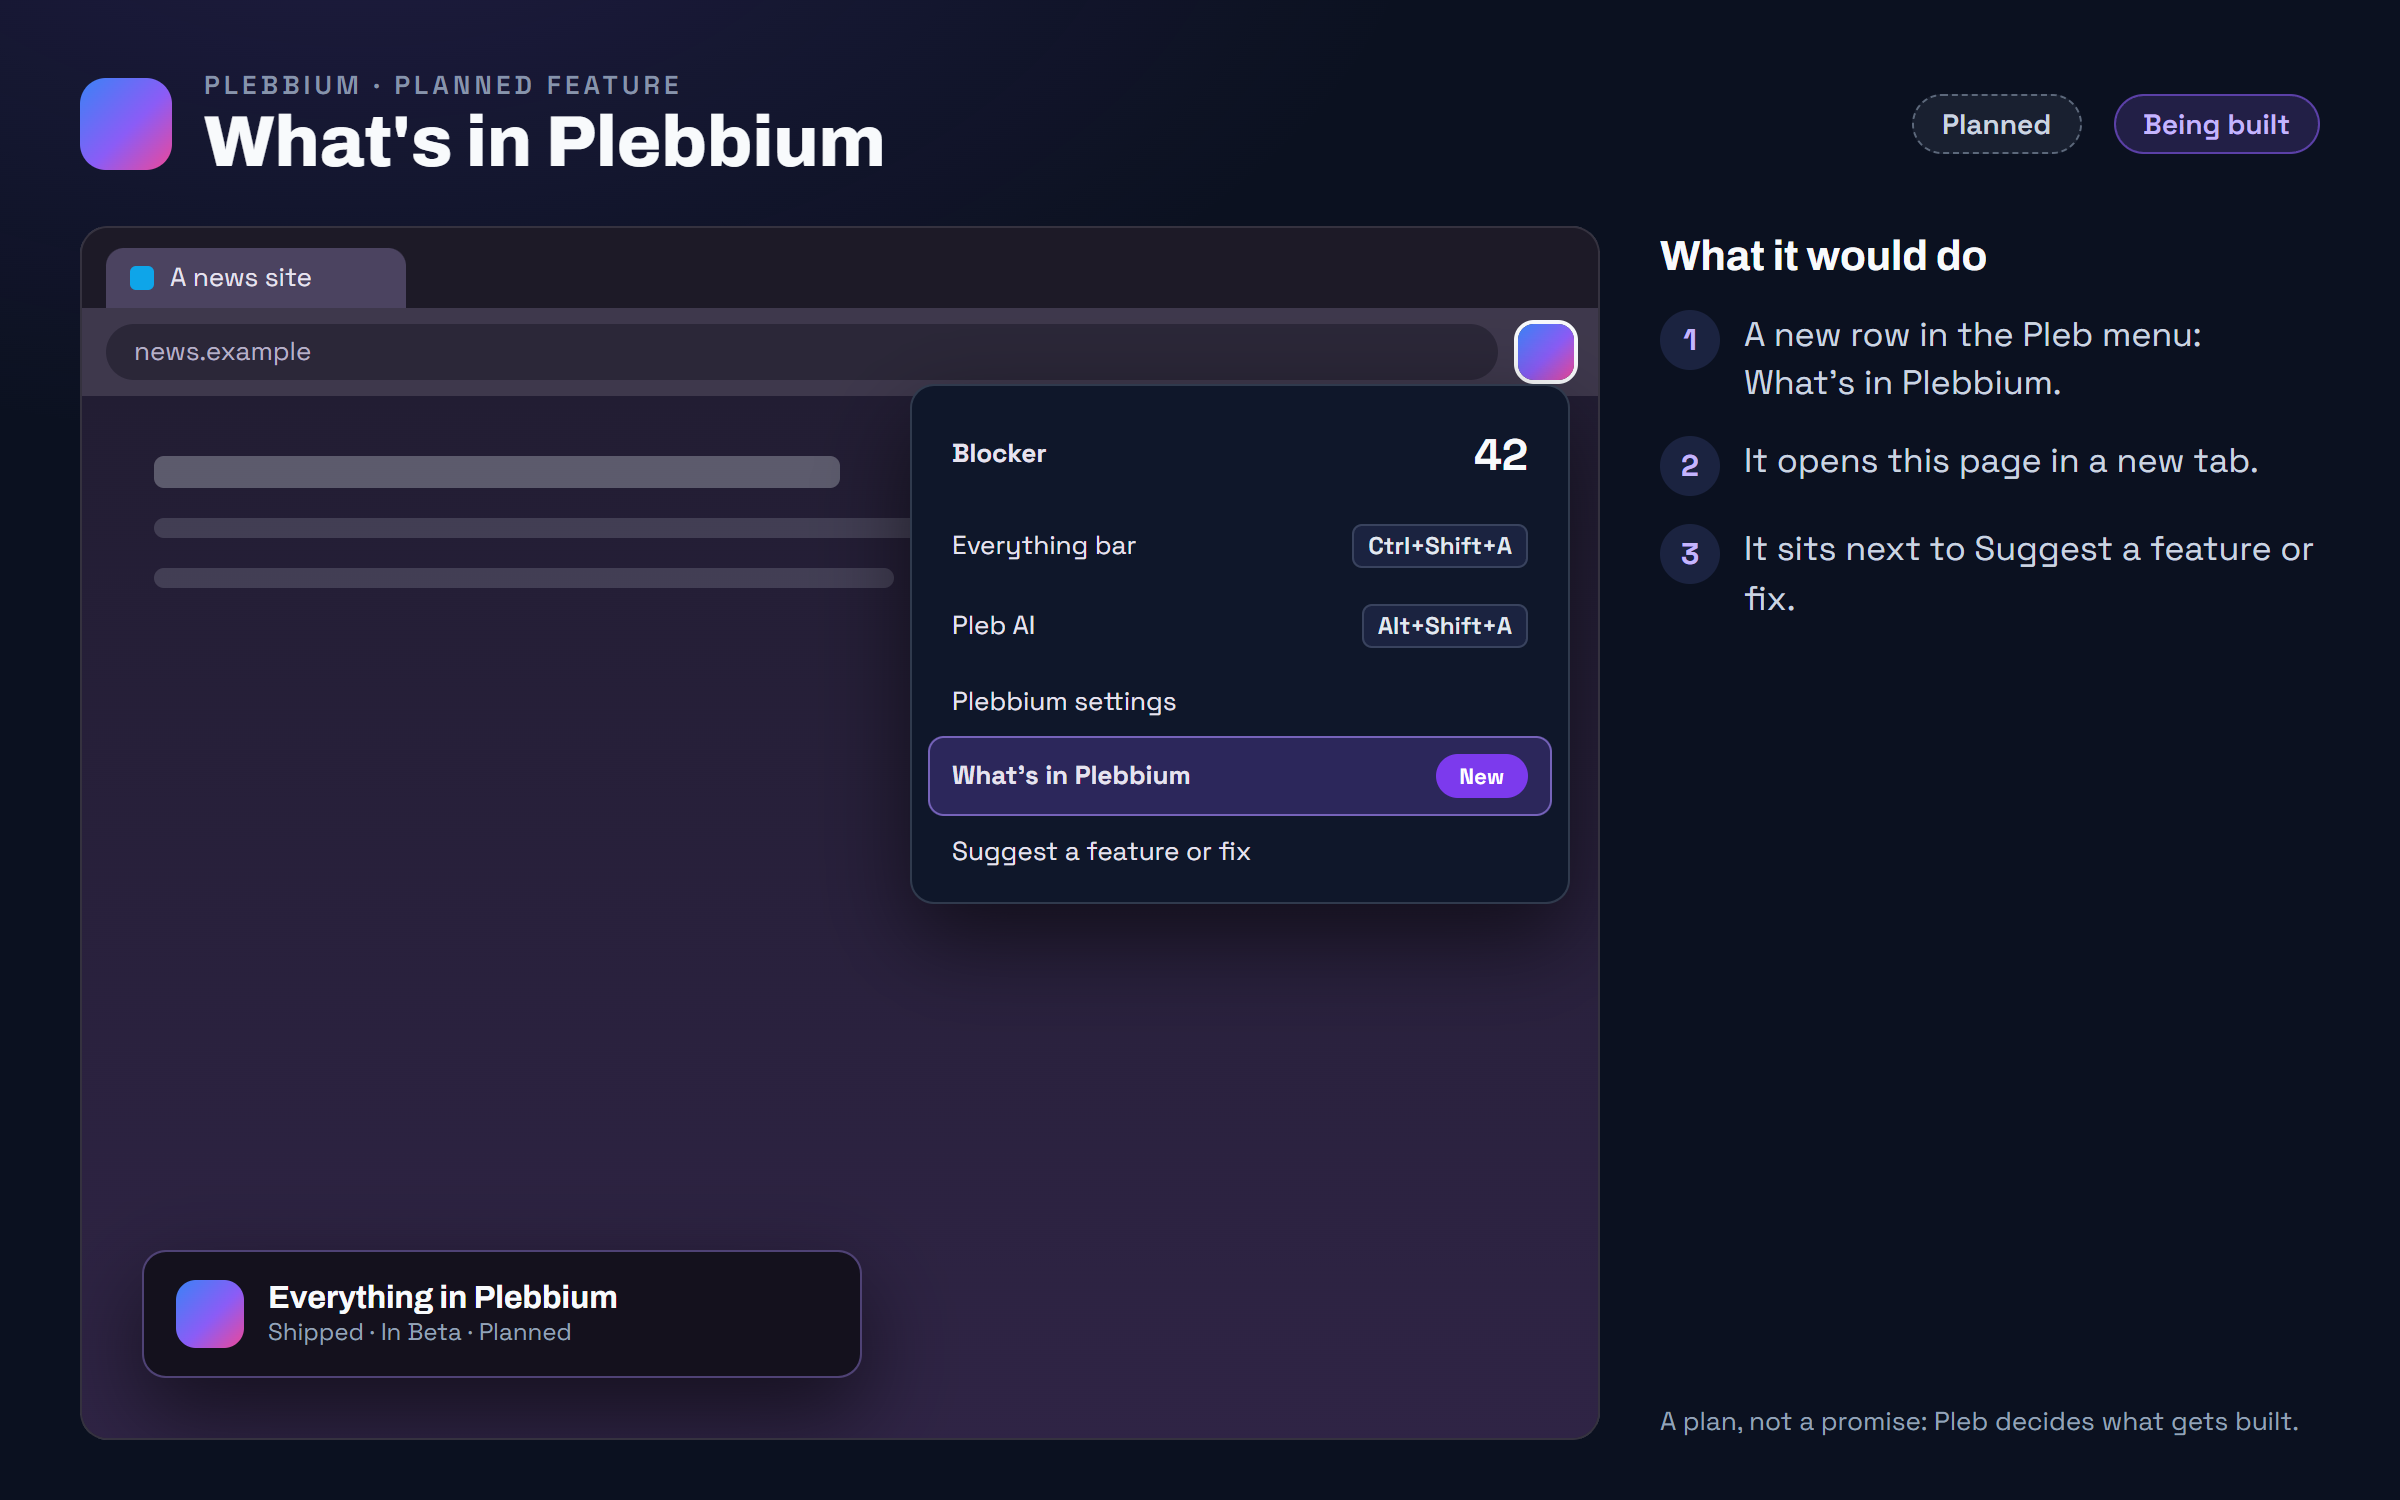
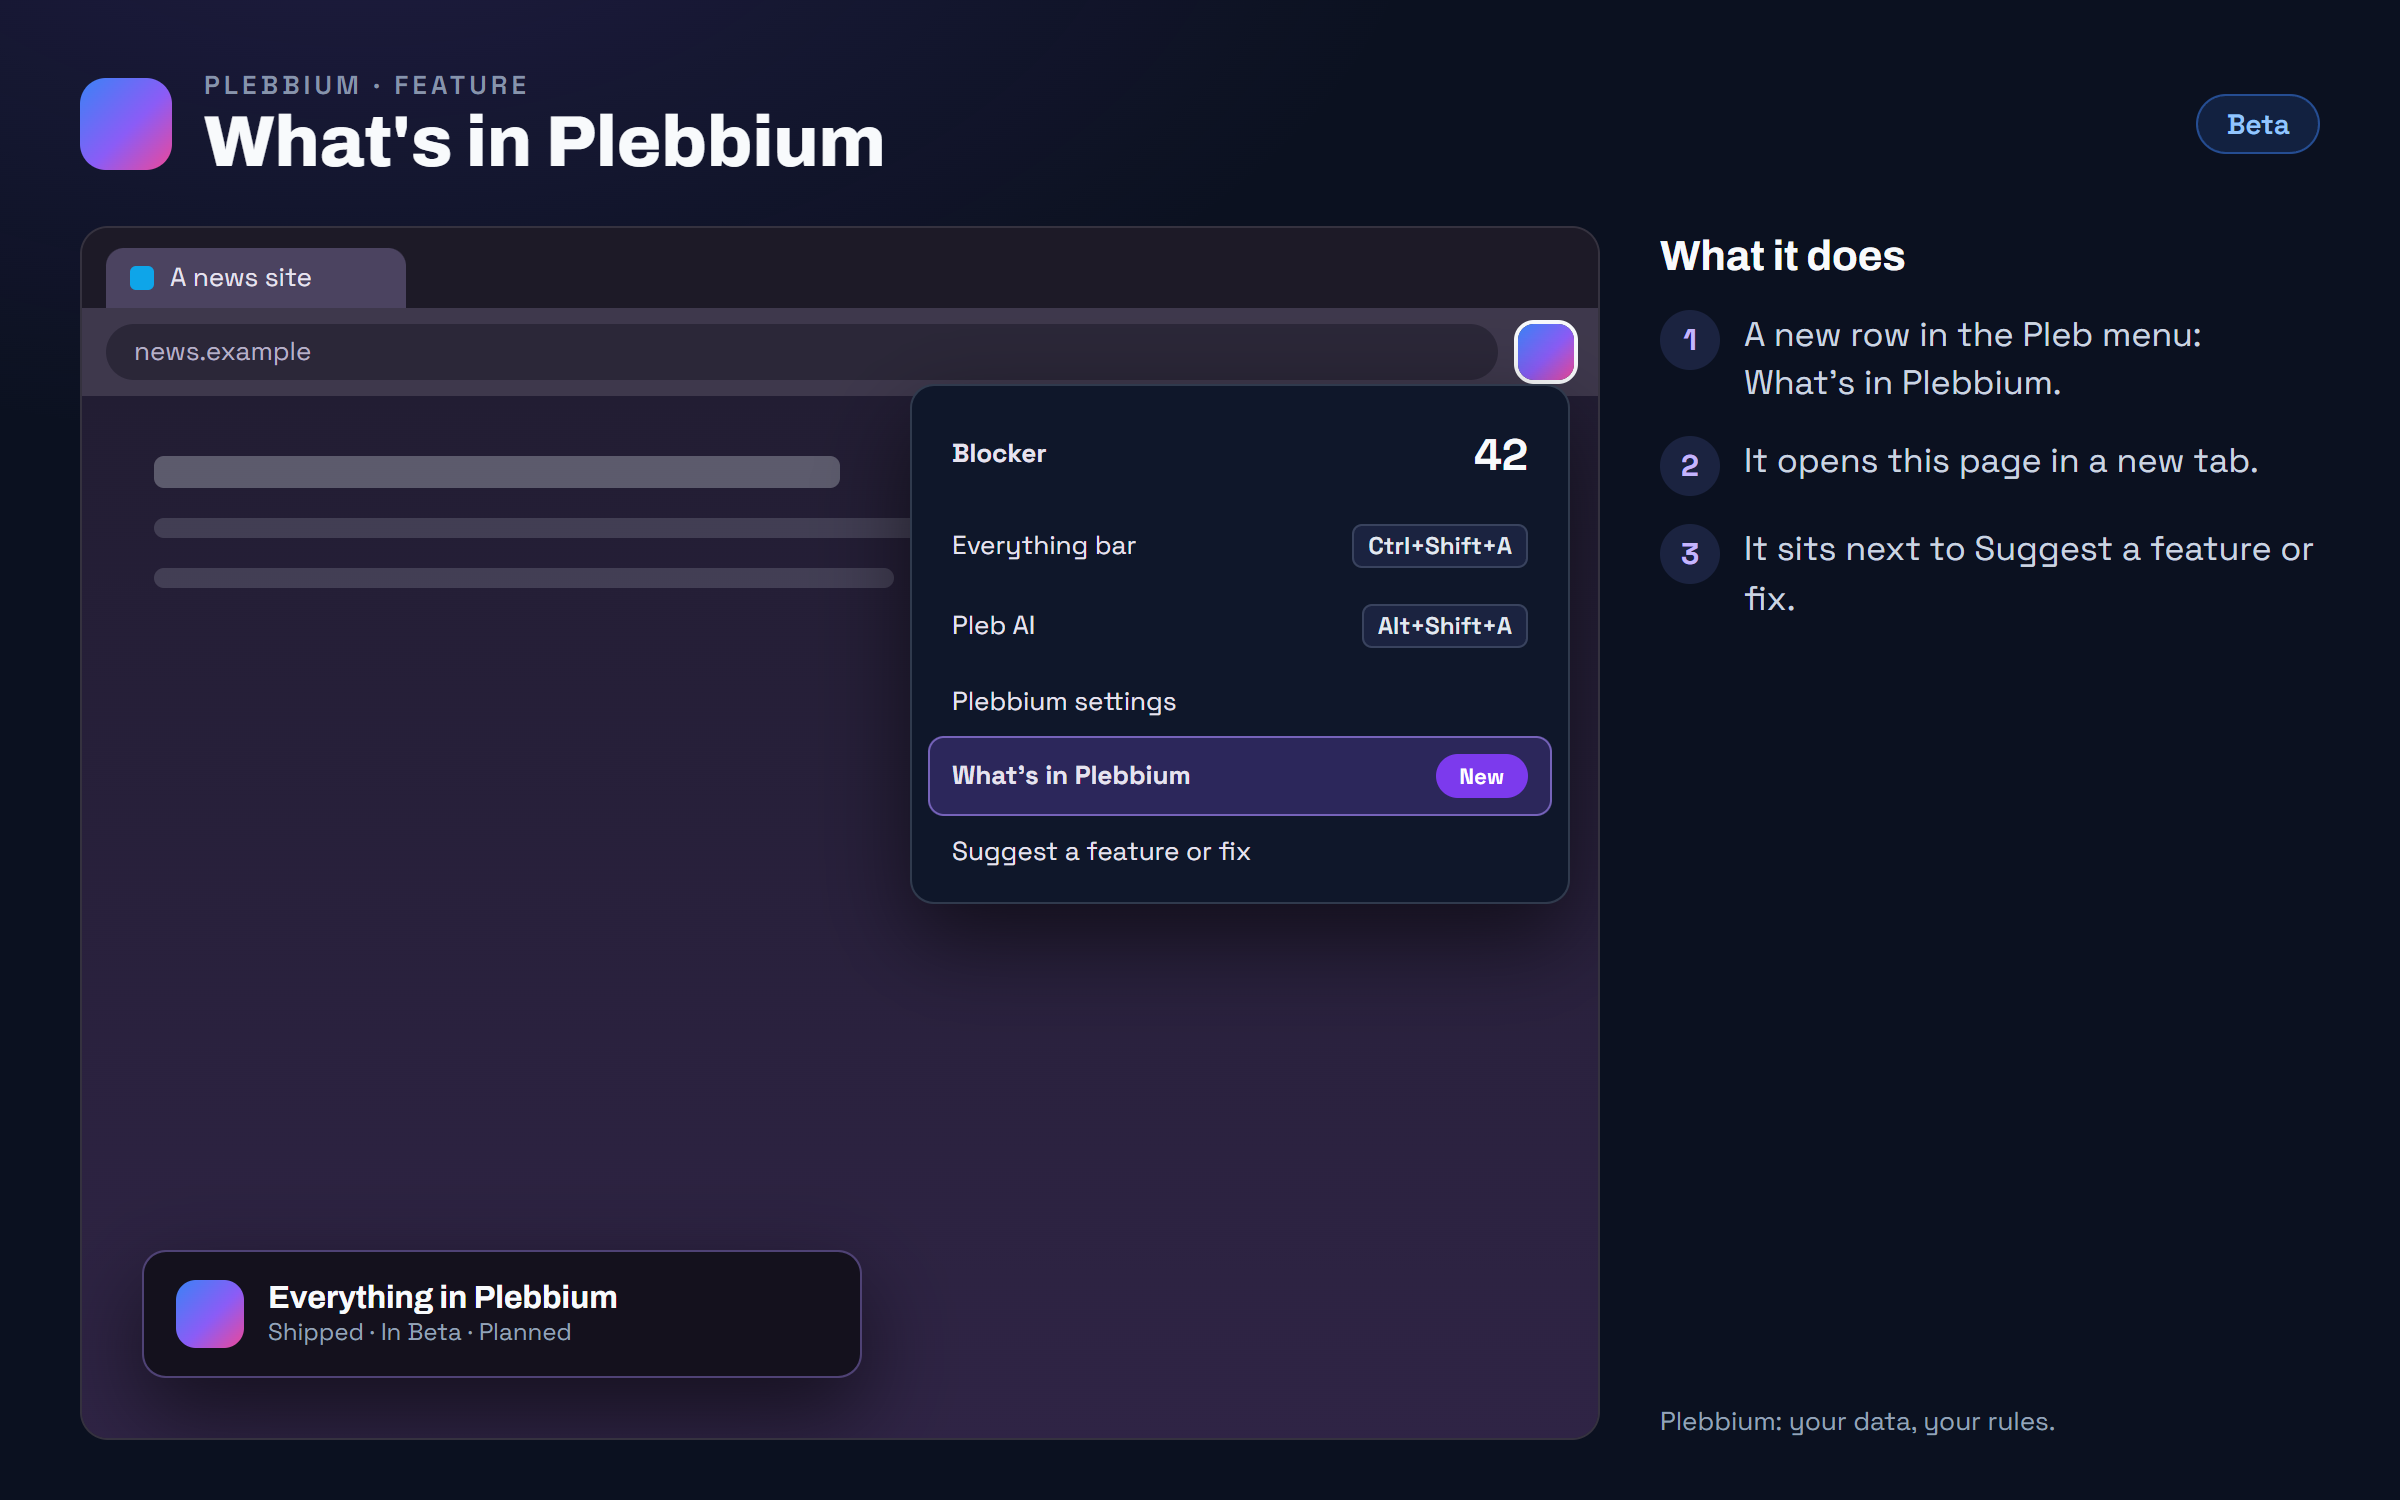
features page: 5 file(s) changed, 0 removed (1 board(s) redrawn)

diff --git a/features/index.html b/features/index.html
@@ -114,22 +114,22 @@
 <span class="meta"><span class="chip st">Stable</span><span class="since">since 3604</span></span></span></a></li>
 </ul></section>
 <section class="row" id="beta" aria-labelledby="h-beta">
-<div class="rowhead"><h2 id="h-beta">In Beta</h2><p class="sub">New features land here first. Plebbium settings › Updates switches to Beta</p><p class="n">1 feature</p>
+<div class="rowhead"><h2 id="h-beta">In Beta</h2><p class="sub">New features land here first. Plebbium settings › Updates switches to Beta</p><p class="n">2 features</p>
 <div class="arrows" hidden><button type="button" class="prev" aria-label="Scroll In Beta back"><svg viewBox="0 0 24 24" aria-hidden="true"><path d="M15 5l-7 7 7 7"/></svg></button><button type="button" class="next" aria-label="Scroll In Beta on"><svg viewBox="0 0 24 24" aria-hidden="true"><path d="M9 5l7 7-7 7"/></svg></button></div></div>
 <ul class="gallery" tabindex="0" aria-label="In Beta">
 <li class="card" data-words="send to device a tab, link or text to your phone or other pcs. pair a phone with a qr code; no app needed.">
 <a href="send-to-device/"><img src="boards/send-to-device-card.png" width="600" height="375" alt="" loading="lazy" decoding="async">
 <span class="cb"><span class="h">Send to device</span><span class="p">A tab, link or text to your phone or other PCs. Pair a phone with a QR code; no app needed.</span>
 <span class="meta"><span class="chip be">Beta</span><span class="since">since 3613</span></span></span></a></li>
-</ul></section>
-<section class="row" id="planned" aria-labelledby="h-planned">
-<div class="rowhead"><h2 id="h-planned">Planned</h2><p class="sub">Not in Plebbium yet. Plans can change</p><p class="n">3 features</p>
-<div class="arrows" hidden><button type="button" class="prev" aria-label="Scroll Planned back"><svg viewBox="0 0 24 24" aria-hidden="true"><path d="M15 5l-7 7 7 7"/></svg></button><button type="button" class="next" aria-label="Scroll Planned on"><svg viewBox="0 0 24 24" aria-hidden="true"><path d="M9 5l7 7-7 7"/></svg></button></div></div>
-<ul class="gallery" tabindex="0" aria-label="Planned">
-<li class="card plan" data-words="what&#39;s in plebbium this page, one click away in the pleb menu.">
+<li class="card" data-words="what&#39;s in plebbium this page, one click away in the pleb menu.">
 <a href="whats-in-plebbium/"><img src="boards/whats-in-plebbium-card.png" width="600" height="375" alt="" loading="lazy" decoding="async">
 <span class="cb"><span class="h">What&#39;s in Plebbium</span><span class="p">This page, one click away in the Pleb menu.</span>
-<span class="meta"><span class="chip pl">Planned</span><span class="chip bu">Being built</span></span></span></a></li>
+<span class="meta"><span class="chip be">Beta</span><span class="since">since features 0.7.1</span></span></span></a></li>
+</ul></section>
+<section class="row" id="planned" aria-labelledby="h-planned">
+<div class="rowhead"><h2 id="h-planned">Planned</h2><p class="sub">Not in Plebbium yet. Plans can change</p><p class="n">2 features</p>
+<div class="arrows" hidden><button type="button" class="prev" aria-label="Scroll Planned back"><svg viewBox="0 0 24 24" aria-hidden="true"><path d="M15 5l-7 7 7 7"/></svg></button><button type="button" class="next" aria-label="Scroll Planned on"><svg viewBox="0 0 24 24" aria-hidden="true"><path d="M9 5l7 7-7 7"/></svg></button></div></div>
+<ul class="gallery" tabindex="0" aria-label="Planned">
 <li class="card plan" data-words="command chains one word in the everything bar runs several steps you saved, in order.">
 <a href="command-chains/"><img src="boards/command-chains-card.png" width="600" height="375" alt="" loading="lazy" decoding="async">
 <span class="cb"><span class="h">Command chains</span><span class="p">One word in the Everything bar runs several steps you saved, in order.</span>

diff --git a/features/whats-in-plebbium/index.html b/features/whats-in-plebbium/index.html
@@ -18,20 +18,20 @@
 <a class="suggest" href="https://sync.plebbian.com/suggest">Suggest a feature</a>
 </header>
 <main id="main" class="wiki">
-<p class="crumbs"><a href="../">All features</a> › <a href="../#planned">Planned</a> › What&#39;s in Plebbium</p>
-<div class="title"><h1>What&#39;s in Plebbium</h1><span class="chip pl">Planned</span><span class="chip bu">Being built</span></div>
+<p class="crumbs"><a href="../">All features</a> › <a href="../#beta">In Beta</a> › What&#39;s in Plebbium</p>
+<div class="title"><h1>What&#39;s in Plebbium</h1><span class="chip be">Beta</span><span class="since">since features 0.7.1</span></div>
 <p class="lead">A What&#39;s in Plebbium row in the Pleb menu that opens this page, so every feature, and how to use it, is one click away.</p>
 <div class="cols">
 <div class="main">
 <figure class="board"><img src="../boards/whats-in-plebbium.png" width="1200" height="750" alt="The Pleb menu with a highlighted What&#39;s in Plebbium row next to Suggest a feature or fix.">
-<figcaption class="sr">What it would do: A new row in the Pleb menu: What&#39;s in Plebbium. It opens this page in a new tab. It sits next to Suggest a feature or fix.</figcaption></figure>
-<section class="sec" aria-labelledby="h-result"><h2 id="h-result">What you would get</h2><p class="para">Click the Pleb button and pick What&#39;s in Plebbium: this page opens in a new tab, with every feature Plebbium has, how to use each one, and what is in Beta and planned. Nothing is sent: it is an ordinary public page.</p>
-<div class="example"><p class="k">For example</p><p>Someone asks how to keep their work and home logins apart. Pleb button › What&#39;s in Plebbium › Workspaces shows them where to click.</p></div></section>
+<figcaption class="sr">What it does: A new row in the Pleb menu: What&#39;s in Plebbium. It opens this page in a new tab. It sits next to Suggest a feature or fix.</figcaption></figure>
+<section class="sec" aria-labelledby="h-use"><h2 id="h-use">How to use it</h2><ol class="steps"><li><span>Pleb button › What&#39;s in Plebbium.</span></li></ol></section>
+<section class="sec" aria-labelledby="h-when"><h2 id="h-when">When it arrived</h2><ul class="tl"><li><p class="v"><b>Features 0.7.1</b><span>Beta 26 Oct 2026 · not on Stable yet</span></p><p>What&#39;s in Plebbium, in the Pleb menu.</p></li></ul></section>
 <section class="sec" aria-labelledby="h-why"><h2 id="h-why">Why it works this way</h2><div class="why"><div><h3>See what exists before asking</h3><p>Seeing what is already there and asking for what isn&#39;t sit side by side in the menu.</p></div></div></section>
-<p class="plan-note">Plans can change, and there is no date: Pleb decides what gets built and when.</p>
+
 <nav class="pn" aria-label="More features"><a href="../send-to-device/">‹ Send to device</a><a href="../command-chains/">Command chains ›</a></nav>
 </div>
-<aside class="glance" aria-labelledby="h-glance"><h2 id="h-glance">At a glance</h2><dl><div><dt>Status</dt><dd><span class="chip pl">Planned</span><span class="chip bu">Being built</span></dd></div><div><dt>Works with</dt><dd><a href="../suggestion-box/">Suggestion box</a></dd></div></dl></aside>
+<aside class="glance" aria-labelledby="h-glance"><h2 id="h-glance">At a glance</h2><dl><div><dt>Status</dt><dd><span class="chip be">Beta</span></dd></div><div><dt>Arrived</dt><dd>features 0.7.1 · 26 Oct 2026</dd></div><div><dt>Works with</dt><dd><a href="../suggestion-box/">Suggestion box</a></dd></div></dl></aside>
 </div>
 </main>
 <footer class="foot">
